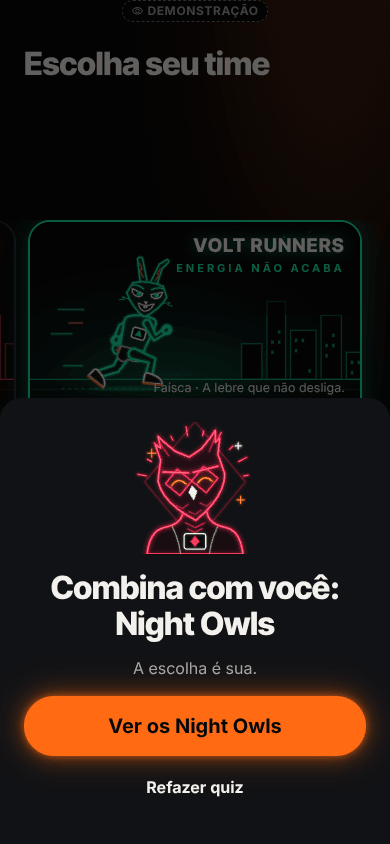
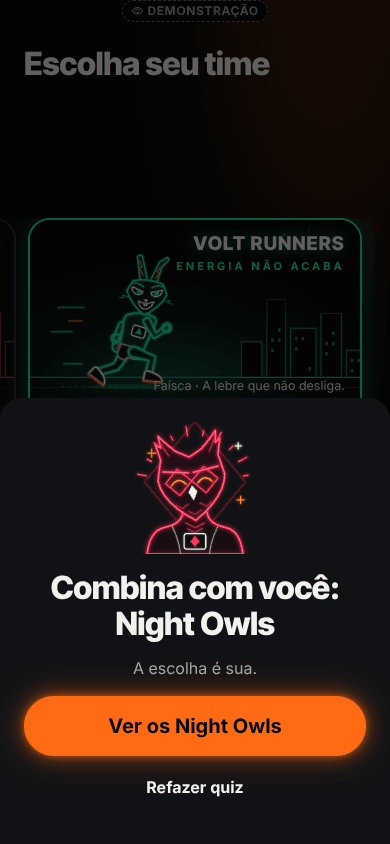
F8-B1 (D-96): selo 'Precisa de reforço' nos cards da escolha e em Meu time; relatório pós-merge da B2
TeamBoostBadge da B2 por render prop no TeamCoverCarousel (components/ sem importar features/), 1 leitura por
tela (useFactionBoost), frase do selo no rótulo do card; em Meu time no time atual e nos outros 3. Verificado
após os merges com B3 e B2: typecheck, eslint 0, Jest 143 suítes / 1.561 ok, régua 0 acima da meta,
demo-mode-flow 35/35 contra export --clear (4 toques até a cerimônia, zero digitação).

Claude-Session: https://claude.ai/code/session_011HHWimTd3v1XUrBB78FqyY

Changed region(s): [[0.0923, 0.2464, 0.9231, 0.3389], [0.1538, 0.3081, 0.9231, 0.4621], [0.1538, 0.3389, 0.2154, 0.4005]]

diff --git a/apps/mobile/src/components/team-cover-carousel.tsx b/apps/mobile/src/components/team-cover-carousel.tsx
@@ -1,4 +1,4 @@
-import { useEffect, useRef, useState } from 'react';
+import { useEffect, useRef, useState, type ReactNode } from 'react';
 import { ScrollView, useWindowDimensions, View, type NativeScrollEvent, type NativeSyntheticEvent } from 'react-native';
 
 import { TeamCover } from '@/components/art/team/cover';
@@ -23,12 +23,16 @@ export type TeamCoverCardProps = {
   onSelect: (f: FactionId) => void;
   /** Abre a folha do líder (`LeaderSheet`). */
   onLeader?: (f: FactionId) => void;
+  /** Selo extra do time (D-96 "Precisa de reforço", só cosmético), vindo de `features/engagement`. */
+  badge?: ReactNode;
+  /** Frase do selo para o leitor de tela (entra no rótulo do card). */
+  badgeLabel?: string | null;
   width: number;
   testID?: string;
 };
 
 /** Card de um time com a capa (D-93): capa animada + líder, valor e estilo em 1 linha + "Conhecer". */
-export function TeamCoverCard({ faction, selected, focused, suggested, onSelect, onLeader, width, testID }: TeamCoverCardProps) {
+export function TeamCoverCard({ faction, selected, focused, suggested, onSelect, onLeader, badge, badgeLabel, width, testID }: TeamCoverCardProps) {
   const { colors } = useTheme();
   const f = factions[faction];
   const b = TEAM_BIO[faction];
@@ -40,7 +44,7 @@ export function TeamCoverCard({ faction, selected, focused, suggested, onSelect,
       testID={id}
       accessibilityRole="radio"
       accessibilityState={{ checked: selected }}
-      accessibilityLabel={`${teamCardLabel(faction)}${suggested ? ' Combina com você, pelo quiz.' : ''}`}
+      accessibilityLabel={`${teamCardLabel(faction)}${suggested ? ' Combina com você, pelo quiz.' : ''}${badgeLabel ? ` ${badgeLabel}` : ''}`}
       onPress={() => onSelect(faction)}
       hitSlop={0}
       containerStyle={{ width }}
@@ -74,6 +78,11 @@ export function TeamCoverCard({ faction, selected, focused, suggested, onSelect,
           <Text variant="small" muted numberOfLines={1}>
             {b.value} · líder {b.leader}
           </Text>
+          {badge ? (
+            <View aria-hidden importantForAccessibility="no-hide-descendants" style={{ marginTop: space[1] }}>
+              {badge}
+            </View>
+          ) : null}
         </View>
         {onLeader ? (
           <PressableScale
@@ -98,6 +107,9 @@ export type TeamCoverCarouselProps = {
   onChange: (f: FactionId) => void;
   onLeader?: (f: FactionId) => void;
   suggested?: FactionId | null;
+  /** Selo por time (ex.: `TeamBoostBadge`) e a frase dele para o leitor de tela. */
+  renderBadge?: (f: FactionId) => ReactNode;
+  badgeLabel?: (f: FactionId) => string | null;
   testID?: string;
 };
 
@@ -108,7 +120,7 @@ const PEEK = 28;
  * Carrossel dos 4 times com as capas. Toque escolhe; deslizar só navega; só a capa no centro anima. A paginação
  * embaixo repete a forma de cada time pelo emblema mini (nunca uma bolinha). Leva o card escolhido ao centro.
  */
-export function TeamCoverCarousel({ value, onChange, onLeader, suggested, testID = 'times' }: TeamCoverCarouselProps) {
+export function TeamCoverCarousel({ value, onChange, onLeader, suggested, renderBadge, badgeLabel, testID = 'times' }: TeamCoverCarouselProps) {
   const { colors } = useTheme();
   const { width: screen } = useWindowDimensions();
   const cardW = Math.max(260, Math.min(screen - PEEK * 2, 420));
@@ -139,7 +151,7 @@ export function TeamCoverCarousel({ value, onChange, onLeader, suggested, testID
         contentContainerStyle={{ paddingHorizontal: (screen - cardW) / 2, gap: space[3] }}
         accessibilityRole="radiogroup">
         {FACTION_IDS.map((f, i) => (
-          <TeamCoverCard key={f} faction={f} width={cardW} selected={value === f} focused={focused === i} suggested={suggested === f} onSelect={onChange} onLeader={onLeader} testID={`${testID}-${f}`} />
+          <TeamCoverCard key={f} faction={f} width={cardW} selected={value === f} focused={focused === i} suggested={suggested === f} onSelect={onChange} onLeader={onLeader} badge={renderBadge?.(f)} badgeLabel={badgeLabel?.(f)} testID={`${testID}-${f}`} />
         ))}
       </ScrollView>
       <View aria-hidden importantForAccessibility="no-hide-descendants" style={{ flexDirection: 'row', justifyContent: 'center', gap: space[4] }}>

diff --git a/apps/mobile/src/features/screens/faction-screen.tsx b/apps/mobile/src/features/screens/faction-screen.tsx
@@ -15,6 +15,7 @@ import { TEAM_BIO } from '@/domain/team-bio';
 import { FACTION_IDS, type FactionId } from '@/domain/types';
 import { ErrorNotice, InfoNotice } from '@/features/auth/form-ui';
 import { chooseFaction } from '@/features/auth/session-controller';
+import { boostLabel, TeamBoostBadge, useFactionBoost } from '@/features/engagement/team-boost';
 import { useNow } from '@/features/use-now';
 import { useSession } from '@/store/session-store';
 import { neon, neonTeam } from '@/theme/neon';
@@ -37,6 +38,8 @@ export function FactionScreen() {
   const [error, setError] = useState<string | null>(null);
   const [done, setDone] = useState<FactionId | null>(null);
 
+  // D-96: selo "Precisa de reforço" (só cosmético), 1 leitura para o time atual e os outros 3.
+  const boost = useFactionBoost();
   const current = profile?.faction ?? null;
   const rule = factionChange({ faction: current, factionChangedSeason: profile?.factionChangedSeason ?? null }, new Date(now));
   const others = FACTION_IDS.filter((f) => f !== current);
@@ -77,6 +80,7 @@ export function FactionScreen() {
                 <Text variant="small" muted>
                   {TEAM_BIO[current].mascot}, {TEAM_BIO[current].mascotKind} · líder {TEAM_BIO[current].leader}
                 </Text>
+                <TeamBoostBadge team={current} boost={boost} />
               </View>
             </View>
           </View>
@@ -116,7 +120,7 @@ export function FactionScreen() {
                   testID={`faccao-opcao-${f}`}
                   accessibilityRole="radio"
                   accessibilityState={{ checked: on }}
-                  accessibilityLabel={`${factions[f].name}. ${TEAM_BIO[f].motto}. ${TEAM_BIO[f].bio[0]}`}
+                  accessibilityLabel={`${factions[f].name}. ${TEAM_BIO[f].motto}. ${TEAM_BIO[f].bio[0]}${boost?.needsBoost === f ? ` ${boostLabel(boost.isDemo).a11y}` : ''}`}
                   hitSlop={0}
                   onPress={() => {
                     setChoice(on ? null : f);
@@ -147,6 +151,9 @@ export function FactionScreen() {
                     <Text variant="small" muted numberOfLines={1}>
                       {TEAM_BIO[f].bio[0]}
                     </Text>
+                    <View aria-hidden importantForAccessibility="no-hide-descendants">
+                      <TeamBoostBadge team={f} boost={boost} />
+                    </View>
                   </View>
                   {on ? <Icon name="check" size={22} color={neonTeam[f]} /> : null}
                 </Pressable>

diff --git a/apps/mobile/src/features/screens/onboarding/__tests__/first-open-order.test.tsx b/apps/mobile/src/features/screens/onboarding/__tests__/first-open-order.test.tsx
@@ -30,6 +30,11 @@ jest.mock('@/features/engagement/local-store', () => ({
     else mockStore.set(name, value);
   },
 }));
+// D-96: o selo "Precisa de reforço" vem de 1 leitura (mockada) compartilhada pelos 4 cards.
+jest.mock('@/features/engagement/team-boost', () => ({
+  ...jest.requireActual<object>('@/features/engagement/team-boost'),
+  useFactionBoost: () => ({ needsBoost: 'coyotes', isDemo: true }),
+}));
 const mockChoose = jest.fn<(f: string) => Promise<{ ok: true; data: unknown } | { ok: false; error: { message: string } }>>();
 jest.mock('@/features/auth/session-controller', () => ({ chooseFaction: (f: string) => mockChoose(f), saveProfile: jest.fn() }));
 
@@ -72,6 +77,11 @@ describe('escolha do time antes da conta (D-91)', () => {
     // 4 capas à vista, nenhuma marcada; o botão espera a escolha
     for (const f of ['striders', 'coyotes', 'owls', 'volt']) expect(r.host(`onboarding-times-${f}`).props.accessibilityState).toMatchObject({ checked: false });
     expect(r.text()).toContain('Toque no seu time');
+    // D-96: selo só no time com menos ativos, marcado como demonstração e lido no rótulo do card
+    expect(r.has('selo-reforco-coyotes')).toBe(true);
+    expect(r.has('selo-reforco-volt')).toBe(false);
+    expect(r.host('onboarding-times-coyotes').props.accessibilityLabel).toContain('Precisa de reforço');
+    expect(r.text()).toContain('Precisa de reforço · demonstração');
 
     r.press('onboarding-times-volt'); // toque 1
     expect(r.host('onboarding-times-volt').props.accessibilityState).toMatchObject({ checked: true });

diff --git a/apps/mobile/src/features/screens/onboarding/team-choice.tsx b/apps/mobile/src/features/screens/onboarding/team-choice.tsx
@@ -14,6 +14,7 @@ import { TEAM_BIO } from '@/domain/team-bio';
 import type { FactionId } from '@/domain/types';
 import { ErrorNotice } from '@/features/auth/form-ui';
 import { unlockLocalCosmetic } from '@/features/engagement/cosmetics';
+import { boostLabel, TeamBoostBadge, useFactionBoost } from '@/features/engagement/team-boost';
 import { space } from '@/theme/tokens';
 
 import { OnboardingSheet } from './onboarding-sheet';
@@ -60,6 +61,8 @@ export function TeamChoiceScreen({ initial = null, initialError = null, onJoin, 
   const [error, setError] = useState<string | null>(initialError);
   const [busy, setBusy] = useState(false);
   const cta = useRef<View>(null);
+  // D-96: selo "Precisa de reforço" (só cosmético) no card do time com menos ativos; 1 leitura para os 4 cards.
+  const boost = useFactionBoost();
 
   /** Centro do botão que confirmou (a cor do time nasce dali). Sem medida (ou sem resposta em 250 ms), o pé da tela. */
   const measureOrigin = () =>
@@ -134,6 +137,8 @@ export function TeamChoiceScreen({ initial = null, initialError = null, onJoin, 
               haptic('selection');
             }}
             onLeader={setLeader}
+            renderBadge={(f) => <TeamBoostBadge team={f} boost={boost} />}
+            badgeLabel={(f) => (boost?.needsBoost === f ? boostLabel(boost.isDemo).a11y : null)}
           />
           <View style={{ alignItems: 'center' }}>
             <Button testID={`${testID}-nao-sei`} label="Não sei escolher" kind="ghost" onPress={() => setQuiz(true)} />

diff --git a/docs/melhoria/relatorios/F8-B1.md b/docs/melhoria/relatorios/F8-B1.md
@@ -16,6 +16,7 @@
 | **Boas-vindas** (UX-20) | 4 bolinhas + wordmark em texto | os 4 mascotes correndo em pelotão (`MascotRunner`, `leve`) + `Logo` oficial (`logotipo`) + 1 frase |
 | **Cadastro** | "Criar conta · 1 minuto e você escolhe seu time." | com time pendente: emblema médio + lema + "Garanta seu lugar nos <time>" + "Seu time está guardado: falta só a conta." (sem time: como antes) |
 | **"Meu time"** (UX-30) | busto de 104 pt + "Lume · líder Íris Valente" + lema antigo; outros 3 com selo de 44 | capa `hero` animada no topo (1 capa animada por tela), linha "Lume, a onça · líder Íris Valente" com o emblema médio; os outros 3 com **emblema médio**, lema e 1ª linha da bio; consequências da troca mantidas |
+| **Selo "Precisa de reforço"** (D-96, pedido da B2) | — | `TeamBoostBadge` (`features/engagement/team-boost`) no card de cada time da escolha (render prop `renderBadge` do carrossel, para `components/` não importar `features/`) e em "Meu time" (time atual e os outros 3); 1 leitura por tela (`useFactionBoost`), frase do selo no rótulo do card para o leitor de tela; só cosmético, marcado como demonstração na demo |
 | **Moldura "Recruta"** (regra 9) | — | `moldura-recruta` no catálogo (`cosmetics.ts`, fonte `time`, "Entrar num time"); liberada na cerimônia e guardada no aparelho (`unlockLocalCosmetic`); Recompensas soma os locais aos do servidor |
 
 ## 2. Contraste da capa (teste `cover.test.tsx`, pior caso no ponto do texto mais perto do brilho)
@@ -55,7 +56,7 @@ Nenhuma tela de jogo acima da meta. A escolha perdeu o subtítulo "Seu time pint
 
 - Novos: `domain/__tests__/team-bio.test.ts` (6), `features/auth/__tests__/pending-team.test.ts` (4), `components/art/__tests__/cover.test.tsx` (7: cena determinística, skyline por time, rampa do brilho, contraste, rótulo, render card/hero/textless), `features/screens/onboarding/__tests__/first-open-order.test.tsx` (8: 2 toques até a cerimônia, quiz sugere e marca, "Continuar" guarda o time e abre o cadastro, erro ao continuar, onboarding com time pendente → `choose_faction` 1× → GPS, falha → escolha de novo → 2ª tentativa, sem pendente → cidade, sem nome → nome).
 - Atualizados: `route-guard.test.ts` (+3 casos D-91), `first-open.test.tsx` (Começar → `/cidade`, logo como herói, cadastro com o time), `onboarding.test.tsx` ("Combina com você: …"), `components-team.test.tsx` (lema da fonte única), `engagement-ui.test.tsx` (32 cosméticos).
-- Verificações: typecheck ok · `eslint src` 0 · Jest completo (depois do merge com a B3) 140 suítes / 1.514 ok (26 pulados, 4 suítes de integração puladas sem `NOMADE_IT`) · `demo-mode-flow.cjs` **32/32** (4 toques até a cerimônia, 0 pedidos ao servidor, 0 erros de página) contra export novo (`EXPO_PUBLIC_DEMO=1 npx expo export -p web --clear`), com a asserção de ≤ 5 toques e zero digitação · régua ok · `testids` e `reduced-motion` verdes.
+- Verificações (depois dos merges com a B3 e a B2, export com `--clear`): typecheck ok · `eslint src` 0 · Jest completo 143 suítes / 1.561 ok (26 pulados, 4 suítes de integração puladas sem `NOMADE_IT`) · `demo-mode-flow.cjs` **35/35** (4 toques até a cerimônia, 0 pedidos ao servidor, 0 erros de página) (4 toques até a cerimônia, 0 pedidos ao servidor, 0 erros de página) contra export novo (`EXPO_PUBLIC_DEMO=1 npx expo export -p web --clear`), com a asserção de ≤ 5 toques e zero digitação · régua ok · `testids` e `reduced-motion` verdes.
 - e2e e Maestro: `onboarding-steps.cjs` (`chooseTeamBeforeAccount` com contagem, `fillSignUp`, `finishOnboarding`; `signUp`/`chooseTeam` mantidos por compatibilidade), `demo-mode-flow`, `demo-flow`, `auth-flow`, `capturas.cjs` (rotas `cidade` e `times`), `.maestro/01-cadastro-onboarding.yaml`. `auth-flow` e `demo-flow` precisam do Supabase local (não rodados aqui).
 
 ## 6. Fora da minha pasta (mínimo, rule 12)
@@ -63,6 +64,7 @@ Nenhuma tela de jogo acima da meta. A escolha perdeu o subtítulo "Seu time pint
 - `components/celebration/team-confirm.tsx` e `choreography.ts` (E5): `finale`, `skippable`, `finaleText`, `TEAM_TIMELINE.finale/ctaFinale`, sem brilho no nome.
 - `features/engagement/cosmetics.ts` e `rewards-screen.tsx` (E7): `moldura-recruta`, `unlockLocalCosmetic`/`readLocalCosmetics` e a soma dos locais.
 - `components/art/*` (E4): `cover.tsx`, `cover-art.ts`, export no `index.ts`.
+- `features/engagement/team-boost.tsx` (E7): só consumido (`TeamBoostBadge`, `useFactionBoost`, `boostLabel`).
 - `supabase/functions/_shared/domain.ts` e os dois `deno.json` (E9): `team-bio`.
 
 ## 7. Pendências e decisões abertas
@@ -73,3 +75,10 @@ Nenhuma tela de jogo acima da meta. A escolha perdeu o subtítulo "Seu time pint
 4. **Dono:** o lema dos Owls, "A noite é nossa", tem 4 palavras (o teste aceita 3–4); Lume passou a ser apresentada como **onça** (texto de `F8/02` §3.2), não mais guepardo (D-70 continua aberta para os nomes).
 5. **Fechamento:** `docs/COMO_APRESENTAR.md` §3 com o roteiro novo (cidade → times → cerimônia → cadastro); `NeonBadges` (`features/auth/neon-badges.tsx`) ficou sem uso e pode sair.
 6. "A cidade está dividida" sem sessão usa `getFactionRanking()`: no servidor real com RLS para `anon` ela cai na divisão de exemplo com o selo "Demonstração" (comportamento previsto; a E9 decide se libera a leitura anônima das contagens).
+
+## 8. Depois do relatório anterior (retomada de 2026-11-04, sobre o WIP `8772819`)
+
+- **Merge da B2** (`86020ce`): conflitos só em `rewards-screen.tsx` (imports: `CosmeticThumb` da B2 + `readLocalCosmetics` daqui), `DECISOES_TECNICAS.md` (D-91/D-93 + D-94) e `PROGRESSO.md` (as duas entradas); nada de lógica.
+- **`TeamBoostBadge` (D-96)** encaixado: no card de cada time da escolha (`TeamCoverCarousel` ganhou `renderBadge`/`badgeLabel` como render prop, para `components/` não importar `features/`; `TeamChoiceScreen` lê `useFactionBoost()` 1× e passa a todos) e em "Meu time" (time atual e os outros 3, com a frase do selo no rótulo do rádio). Só cosmético; some sem dado. Teste em `first-open-order.test.tsx` (selo só no time com menos ativos, marcado "demonstração", lido no rótulo do card).
+- **Limite do encaixe (para a E9):** `faction_activity()` exige sessão (`requireUser` no servidor de demonstração e, pelo contrato, no real). Na escolha **antes da conta** a leitura falha e o selo não aparece (comportamento honesto, sem selo inventado). Para o selo valer na escolha da D-91, a RPC precisa aceitar `anon` devolvendo só as 4 contagens. Em "Meu time" ele aparece quando um time está sozinho no mínimo com ≥ 4 ativos na semana.
+- **Verificações (tree do WIP, export com `--clear`):** typecheck ok · `eslint src` 0 · régua 0 acima da meta (30 telas de jogo) · Jest completo 143 suítes / 1.561 ok (26 pulados) · `demo-mode-flow.cjs` **35/35** (4 toques até a cerimônia, zero digitação, 0 pedidos ao servidor, 0 erros de página).
